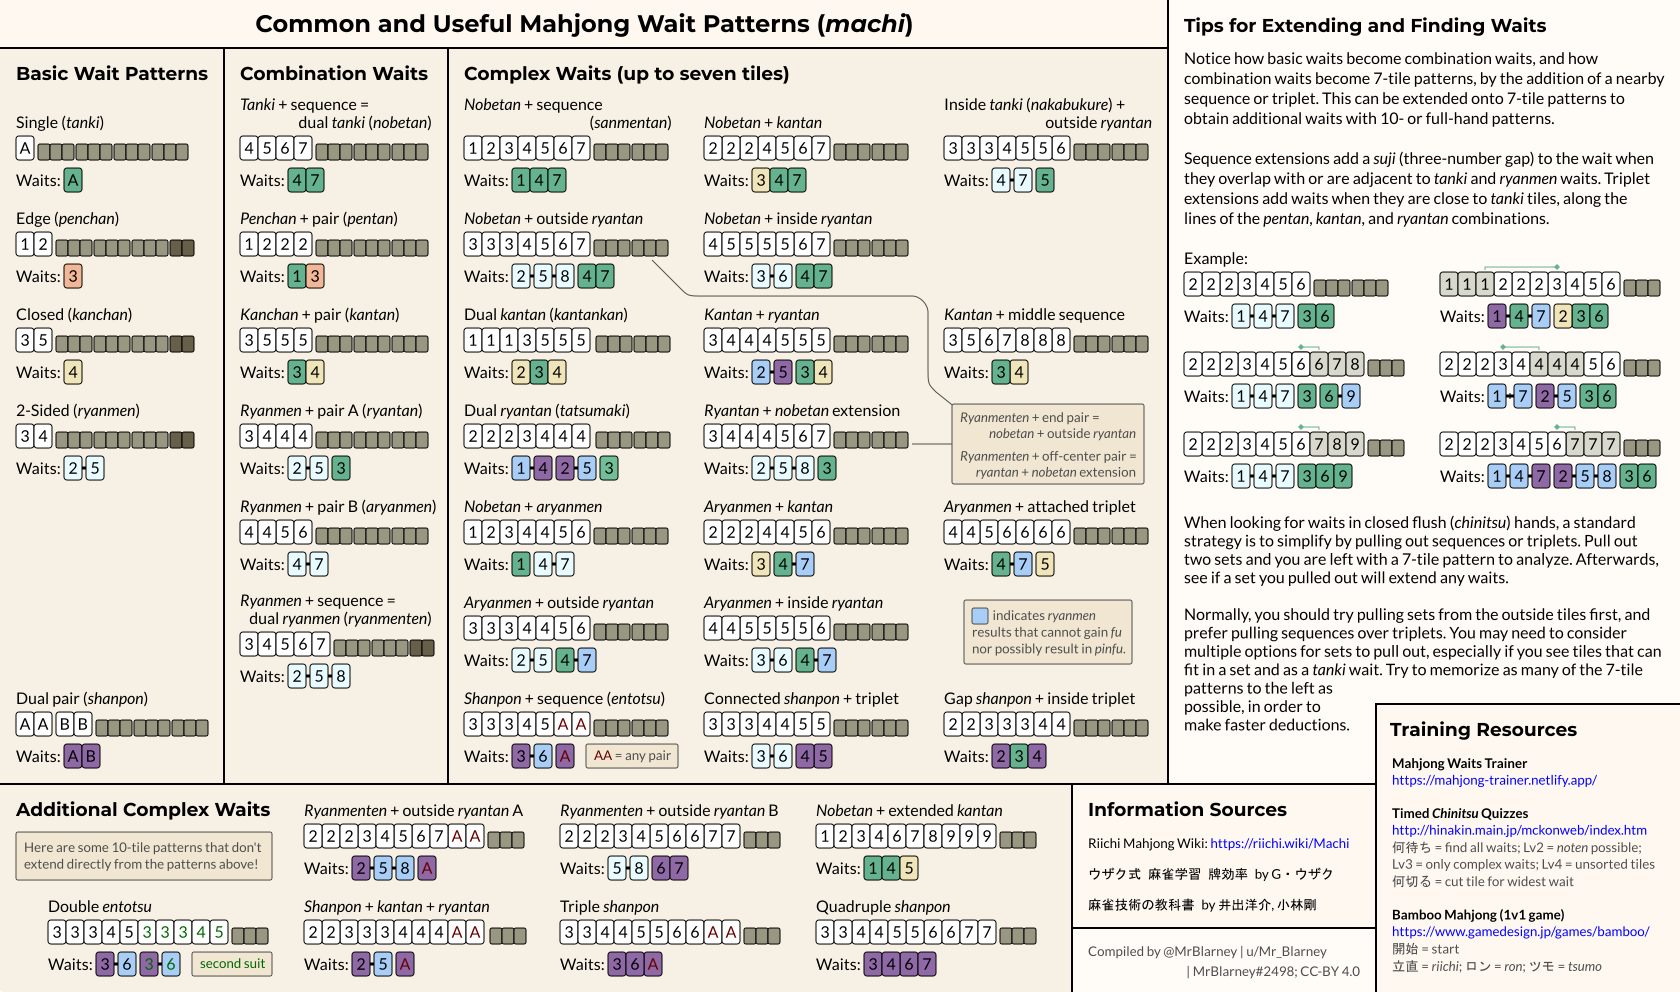
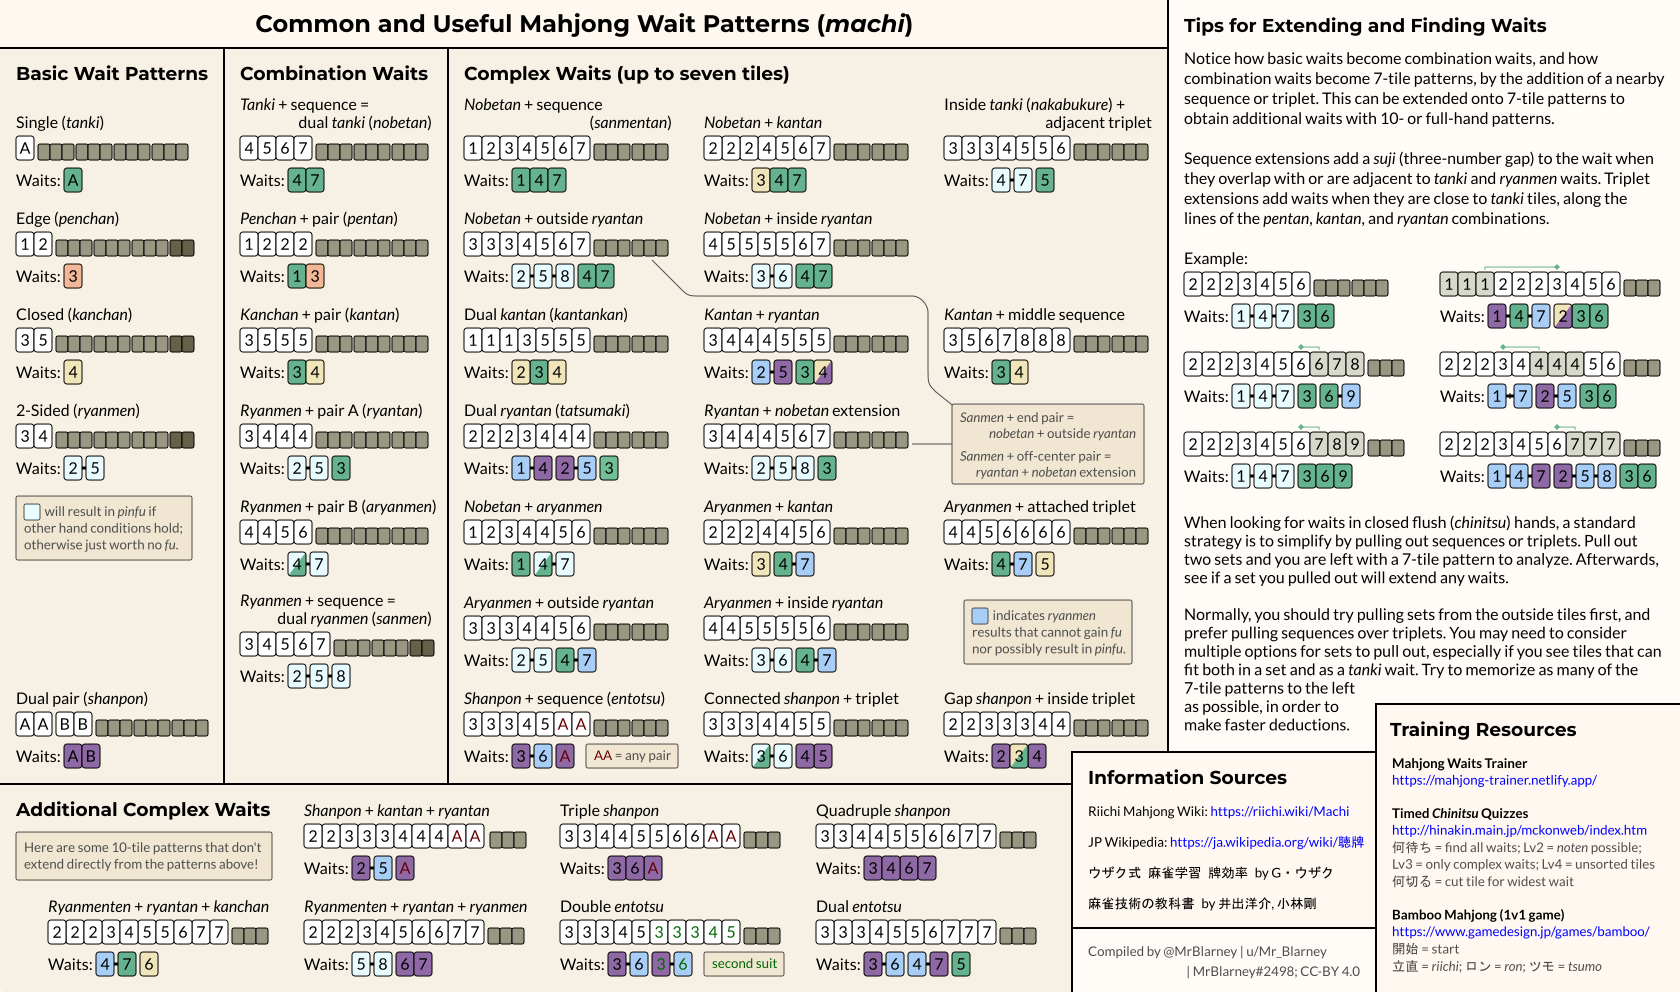
update MrBlarney waits stuff

diff --git a/mahjong/intro.md b/mahjong/intro.md
@@ -97,7 +97,8 @@
 
 # Advanced resources
 * [Uzaku's Guide to Mahjong Tile Efficiency](https://www.reddit.com/r/Mahjong/comments/tv950t/uzakus_guide_to_mahjong_tile_efficiency_english) English translation by reddit user u/konomu [Direct link](https://drive.google.com/file/d/1ApHp2Dm-3dkEQTEAnmfTsk8J6OaH8d4G/view?usp=sharing)
-* [Common Waits](media/Common_Waits.png) by reddit user u/Mr_Blarney [Source](https://cdn.discordapp.com/attachments/560284657229234196/1059251851033313350/Common_Waits.png)    
+* [Common Waits](media/Common_Waits.png) by reddit user u/Mr_Blarney [Source](https://drive.google.com/file/d/1K4NuE2UZgeqhSR-WsYWyQlRiEERh5VQo/view) [Reddit post](https://www.reddit.com/r/Mahjong/comments/100qw6y/mahjong_waits_infographic/)
+  * [Book](https://www.reddit.com/r/Mahjong/comments/175hsqz/reading_multisided_waits_free_guide_book/) on multisided waits expanding on this graphic
 * [Discard reading](https://rentry.co/8gmub) rough notes by Twitch user Xomnom
 * [Early discards](https://rentry.co/shha7) rough notes by Twitch user Xomnom
 * [Push or Fold judgement](https://youtu.be/XvCAmf4KCBk?t=377)
